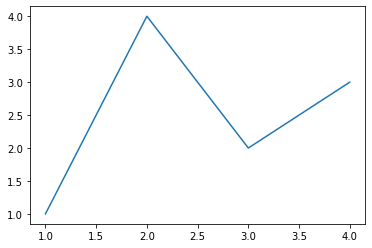
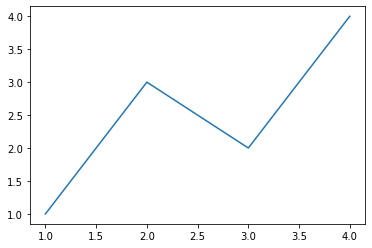
Update text notebook

diff --git a/examples/percent_with_outputs/06_matplotlib.py b/examples/percent_with_outputs/06_matplotlib.py
@@ -23,7 +23,7 @@ import numpy as np
 
 # %% cb1418f2-dfee-4345-a26f-d6775c93fb4e
 fig, ax = plt.subplots()  # Create a figure containing a single axes.
-ax.plot([1, 2, 3, 4], [1, 4, 2, 3]);  # Plot some data on the axes.
+ax.plot([1, 2, 3, 4], [1, 3, 2, 4]);  # Plot some data on the axes.
 
 # «»
 # data:
